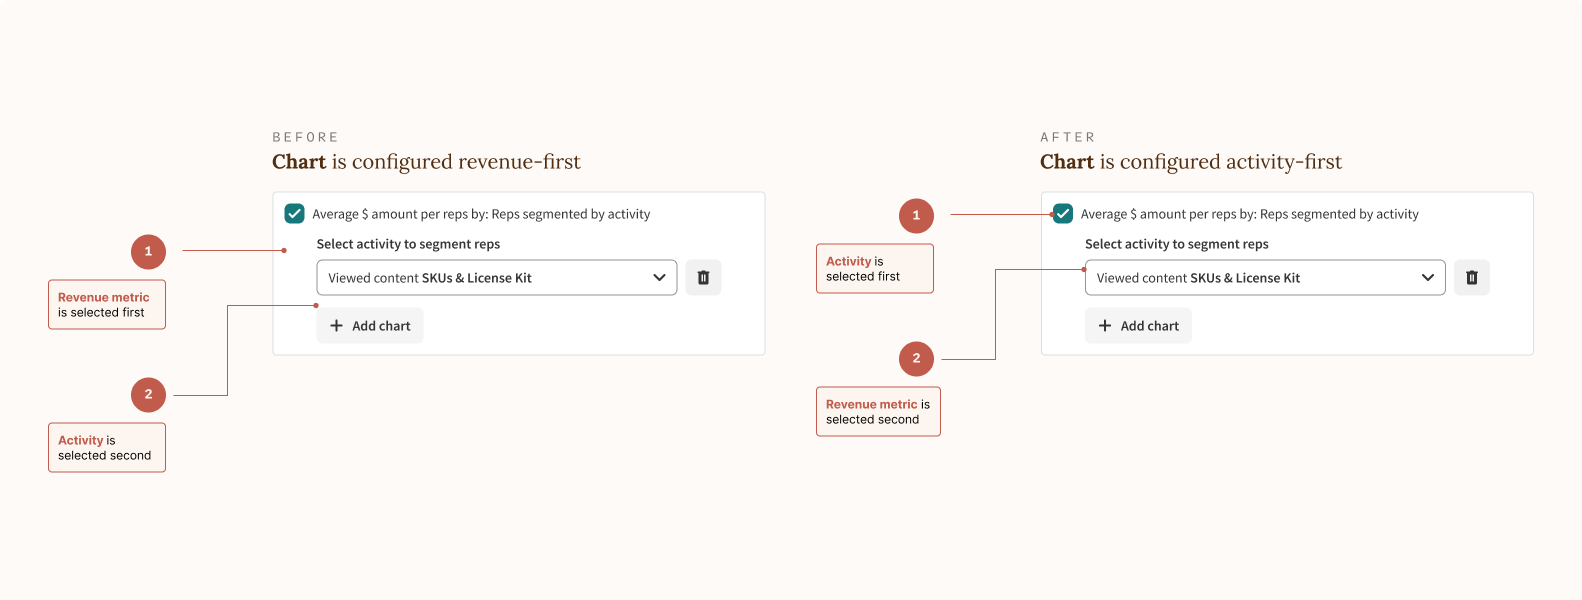
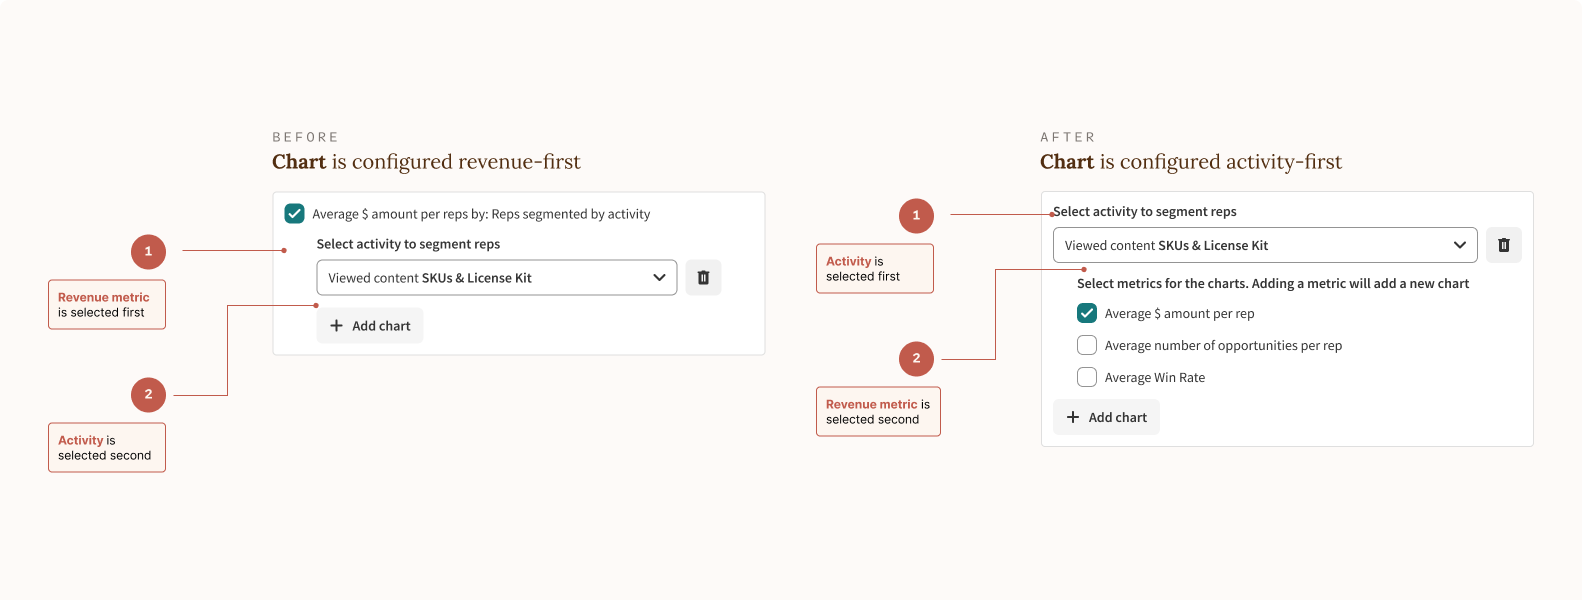
Update Before/After chart config image and add captions reference
Re-export the chart configuration before/after asset and check in a
working notes file capturing the image captions used across the GTM and
Scoped Search case studies.

Changed region(s): [[0.6504, 0.33, 0.9602, 0.66], [0.6814, 0.69, 0.7434, 0.72], [0.9292, 0.39, 0.9602, 0.42]]

diff --git a/image-captions.md b/image-captions.md
@@ -1,0 +1,22 @@
+# Image Captions
+
+## GTM Oversight — Go to Market with Initiatives
+
+1. The Initiative scorecard, a dashboard that shows seller activity and revenue outcomes.
+2. Initiative scorecard shipped to customers.
+3. Before — Initiative is created in a no-code editor
+4. After — a structured drag-and-drop scaffolding
+5. Before - Correlation metric was a part of the business outcome section.
+6. After reframing - Introducing the "Business Drivers" section to host the correlation metric
+7. Reframing the charts to read activity-first
+8. Reorganizing the chart configuration to be activity-first
+
+---
+
+## Scoped Search
+
+1. Enterprise search experience in Highspot, a sales enablement platform that helps go-to-market (GTM) teams improve revenue growth by equipping, training, and coaching sales representatives.
+2. Content collection: a higher level grouping to match how reps search
+3. Content collections page in the admin settings
+4. Early exploration — two interaction models
+5. Fully-working prototype of the search dropdown
